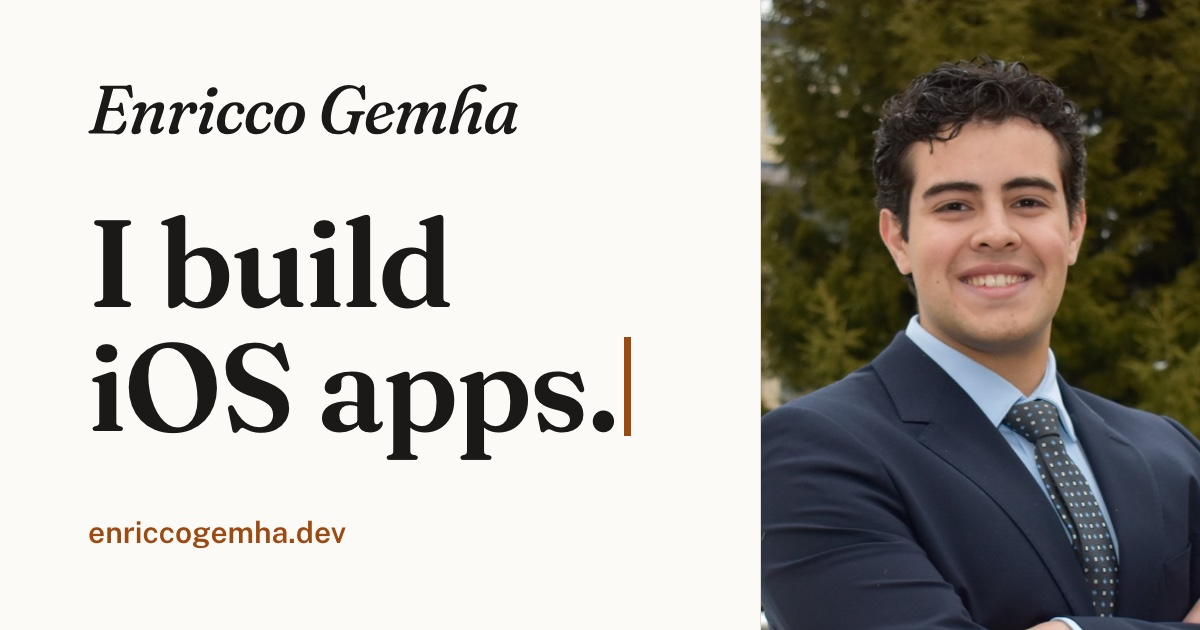
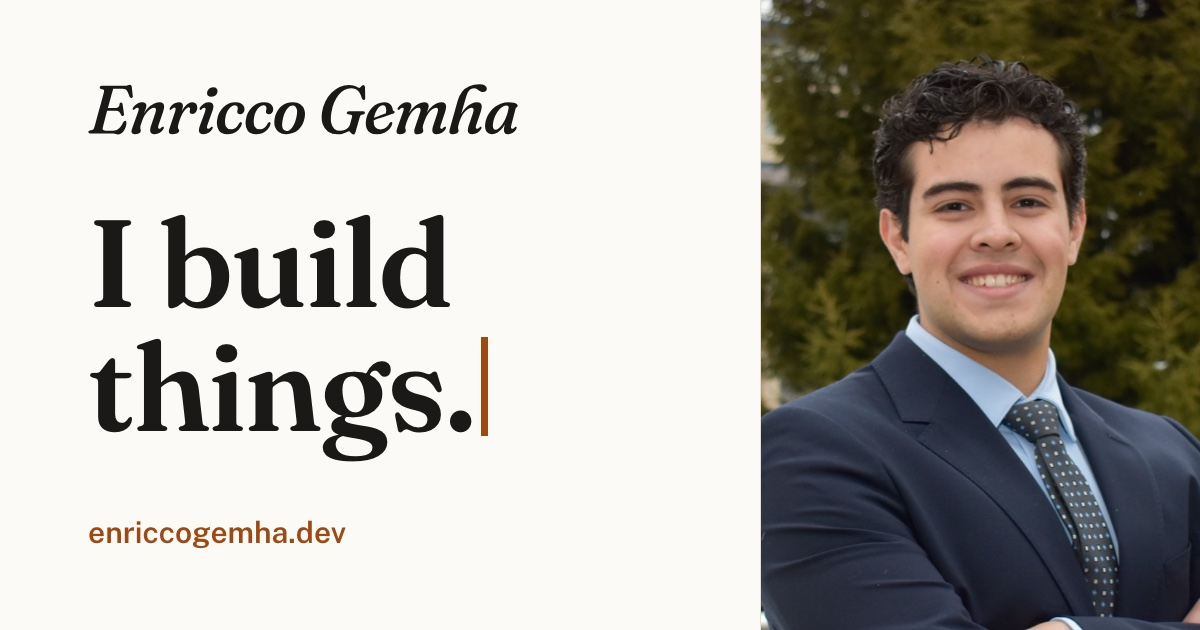
Say "I build things." on the preview card

Changed region(s): [[0.0617, 0.5429, 0.5242, 0.754]]

diff --git a/README.md b/README.md
@@ -59,7 +59,7 @@ on those cards.
 
 When a link to any page is shared in WhatsApp, iMessage, Slack or LinkedIn,
 the preview shows `src/assets/og-card.jpg`. It's laid out like the top of the
-homepage: the name, the "I build iOS apps." headline with its caret, and the
+homepage: the name, "I build things." with the headline's caret, and the
 portrait. `scripts/og-card.mjs` draws it with the site's own fonts, colours
 and wordmark, so after changing any of those, draw it again:
 
